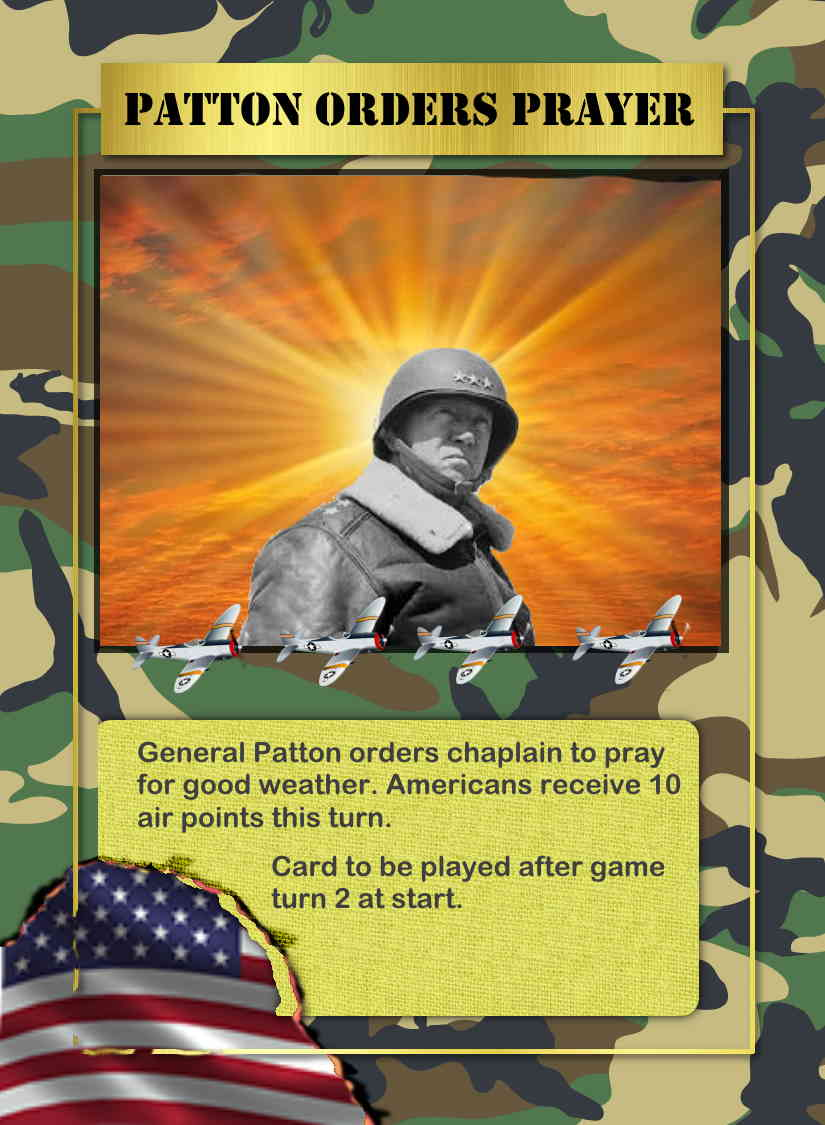
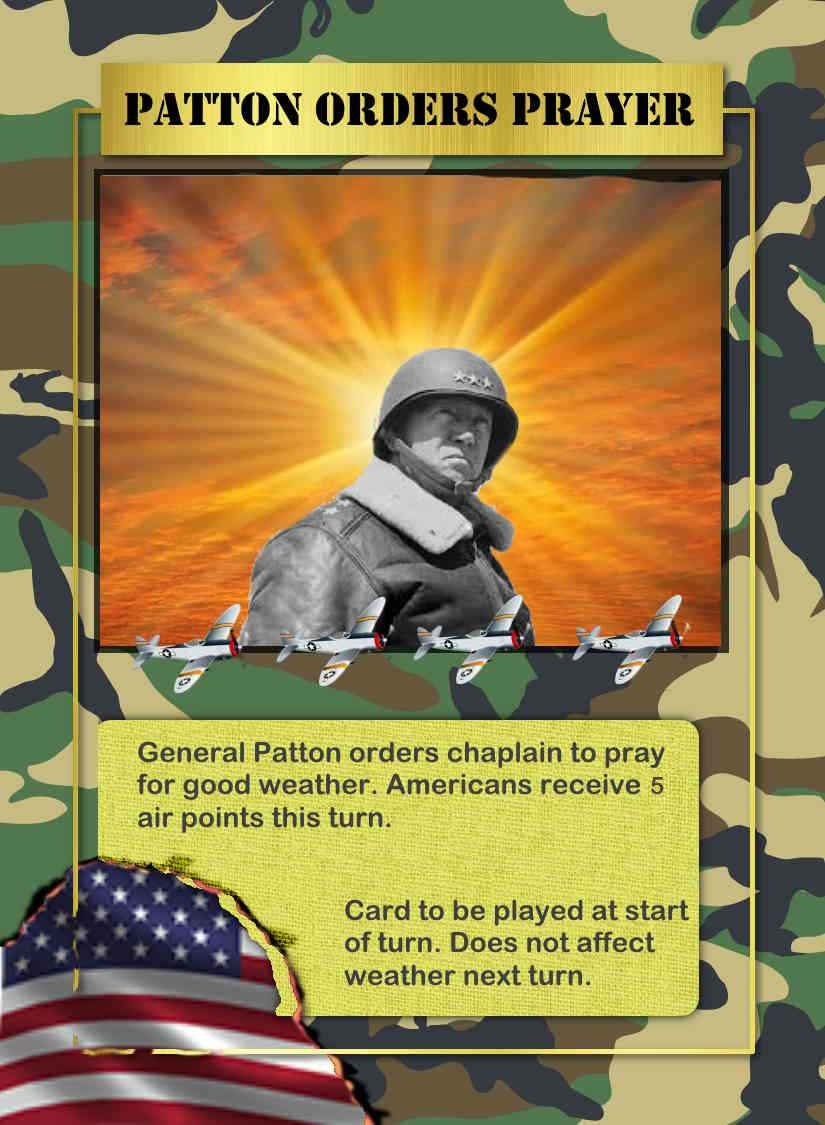
fixes ai overstacking, pray for weather, leaving wiltz

diff --git a/core/src/com/bruinbeargames/ardenne/AI/AIUtil.java b/core/src/com/bruinbeargames/ardenne/AI/AIUtil.java
@@ -1,6 +1,7 @@
 package com.bruinbeargames.ardenne.AI;
 
 import com.bruinbeargames.ardenne.Hex.Hex;
+import com.bruinbeargames.ardenne.Hex.HexInt;
 import com.bruinbeargames.ardenne.Unit.Unit;
 import com.bruinbeargames.ardenne.Unit.UnitMove;
 
@@ -549,6 +550,87 @@ public class AIUtil {
             }
         }
         return hexReturn;
+    }
+
+    /**
+     * Check that AIOrder does not cause overstacking but not overall stacking
+     *
+     * @param arrHexStackCnt
+     * @param arrOrders      the aiorders to check
+     * @return
+     */
+    public static ArrayList<AIOrders> checkStaking(ArrayList<HexInt> arrHexStackCnt, ArrayList<AIOrders> arrOrders) {
+        ArrayList<AIOrders> arrReturn = new ArrayList<>();
+        arrReturn.addAll(arrOrders);
+        ArrayList<AIOrders> arrRemove = new ArrayList<>();
+        for (AIOrders aiO:arrOrders){
+            if (aiO.arrHexMoveTo.contains(Hex.hexTable[7][13])){
+                int b=0;
+            }
+            int ix=0;
+            for (Hex hex:aiO.arrHexMoveTo){
+                for (HexInt hi:arrHexStackCnt){
+                    if (hi.hex == hex){
+                        if (hi.count + aiO.arrUnit.get(ix).getCurrentStep() > Hex.stackMax){
+                            arrRemove.add(aiO);
+                        }
+                   }
+                }
+            }
+            ix++;
+        }
+        arrReturn.removeAll(arrRemove);
+        return arrReturn;
+    }
+
+    public static ArrayList<HexInt> setStackCount(boolean isAllies, ArrayList<AIOrders> arrOrders, AIOrders aiBastogne) {
+        ArrayList<Unit> arrUnitsNotOnOrders = new ArrayList<>();
+        if (isAllies) {
+            arrUnitsNotOnOrders.addAll(Unit.getOnBoardAllied());
+        }else{
+            arrUnitsNotOnOrders.addAll(Unit.getOnBoardAllied());
+        }
+        arrUnitsNotOnOrders.removeAll(arrOrders.get(0).arrUnit);
+
+        ArrayList<HexInt> arrHexStackCnt = new ArrayList<>();
+        /**
+         *  set up table with stack cnt for units not on orders
+         */
+        for (Unit unit:arrUnitsNotOnOrders){
+            Hex hex = unit.getHexOccupy();
+            HexInt hexInt = null;
+            for (HexInt hi:arrHexStackCnt) {
+                if (hi.hex == hex) {
+                    hexInt = hi;
+                }
+            }
+            if (hexInt == null) {
+                hexInt = new HexInt(hex, unit.getCurrentStep());
+                arrHexStackCnt.add(hexInt);
+            }else{
+                hexInt.count += unit.getCurrentStep();
+            }
+        }
+        /**
+         *  add Orders from Bastogne
+         */
+        int ix =0;
+        for (Hex hex:aiBastogne.arrHexMoveTo){
+            HexInt hexInt = null;
+            for (HexInt hi:arrHexStackCnt) {
+                if (hi.hex == hex) {
+                    hexInt = hi;
+                }
+            }
+            if (hexInt == null) {
+                hexInt = new HexInt(hex, aiBastogne.arrUnit.get(ix).getCurrentStep());
+                arrHexStackCnt.add(hexInt);
+            }else{
+                hexInt.count += aiBastogne.arrUnit.get(ix).getCurrentStep();
+            }
+            ix++;
+        }
+        return arrHexStackCnt;
     }
 }
 /**

diff --git a/core/src/com/bruinbeargames/ardenne/AI/AIReinforcementScenario1.java b/core/src/com/bruinbeargames/ardenne/AI/AIReinforcementScenario1.java
@@ -249,6 +249,7 @@ public class AIReinforcementScenario1 implements Observer {
             ArrayList<Hex> arrHexMove = findHexesOnReinforcement(unit, reinMartenlang);
             reinMartenlang++;
             AIUtil.RemoveDuplicateHex(arrHexMove);
+
             if (arrHexMove.size() > 0) {
                 arrWork.add(arrHexMove);
             } else {
@@ -300,7 +301,13 @@ public class AIReinforcementScenario1 implements Observer {
          *  set isTotal to false as same scorer is used
          */
         arrNoDupes = AIOrders.removeDupeMoveToHexes(arrStart,arrAllowDuplicates);
-        for (AIOrders aio:arrNoDupes){
+        /**
+         *  do in tandem
+         */
+        ArrayList<HexInt> arrHexStackCnt =  AIUtil.setStackCount(isAllies,arrNoDupes, aiBastogne);
+
+        ArrayList<AIOrders> arrNoStackViolations= AIUtil.checkStaking(arrHexStackCnt, arrNoDupes);
+        for (AIOrders aio:arrNoStackViolations){
             arrAiOrdersMarrtenLange.add(AIOrders.combine(aiBastogneandArtillery,aio,false));
         }
 
@@ -531,7 +538,7 @@ public class AIReinforcementScenario1 implements Observer {
             if (hex2.canOccupy(unit)) {
                 if (stackFake(unit, hex2)) {
                     arrHexReturn.add(hex2);
-                    break;    // dont take up stacking for all
+ //                   break;    // dont take up stacking for all
                 }
             }
         }

diff --git a/core/src/com/bruinbeargames/ardenne/AI/AIScenario1Turn3to6.java b/core/src/com/bruinbeargames/ardenne/AI/AIScenario1Turn3to6.java
@@ -148,7 +148,17 @@ public class AIScenario1Turn3to6 implements Observer {
         AIFaker.setFakeOccupied(aiUse, true, 2);
         AIFaker.setFakeZoc(aiUse, 2);
         int score = AIScorer.instance.getScore(type, arrUnits, aiUse, 2);
-
+        int ix=0;
+        ArrayList<Unit> arrREmove  = new ArrayList<>();
+        for (Unit unit:aiUse.arrUnit){
+            if (unit.getHexOccupy() == AIReinforcementScenario1.hexWiltz){
+                arrREmove.add(unit);
+                aiUse.arrHexMoveTo.remove(ix);
+                aiUse.arrHexMobileAssault.remove(ix);
+            }
+            ix++;
+        }
+        aiUse.arrUnit.removeAll(arrREmove);
 
         AIMover.instance.execute(aiUse);
     }

diff --git a/core/src/com/bruinbeargames/ardenne/AI/AICardHandler.java b/core/src/com/bruinbeargames/ardenne/AI/AICardHandler.java
@@ -129,7 +129,7 @@ public class AICardHandler {
                 // let it break removeunits will move on
                 break;
             case "prayforweather":
-                Airplane.instance.add(10);
+                Airplane.instance.add(5);
                 CardHandler.instance.removeCard(card);
                 break;
 

diff --git a/core/src/com/bruinbeargames/ardenne/Hex/Hex.java b/core/src/com/bruinbeargames/ardenne/Hex/Hex.java
@@ -655,7 +655,7 @@ public class Hex {
                     arrReturn.add(hex);
                 }
             }
-        }
+
         if (isLosses){
             EventPopUp.instance.show("removingoverstacks");
         }
